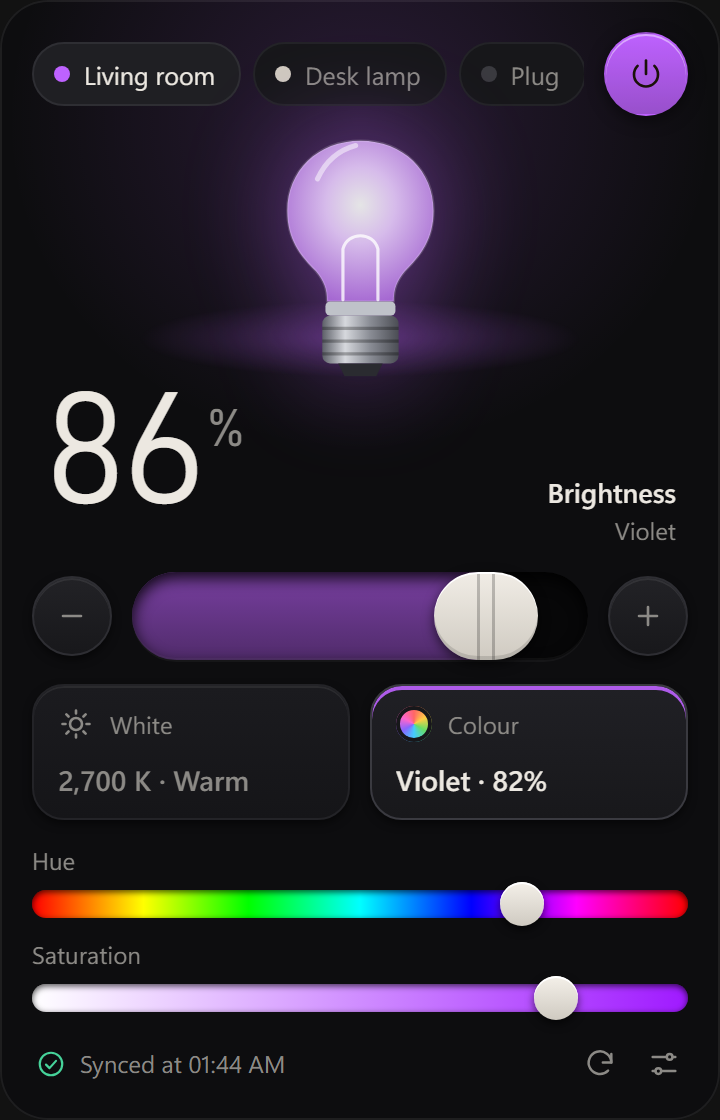
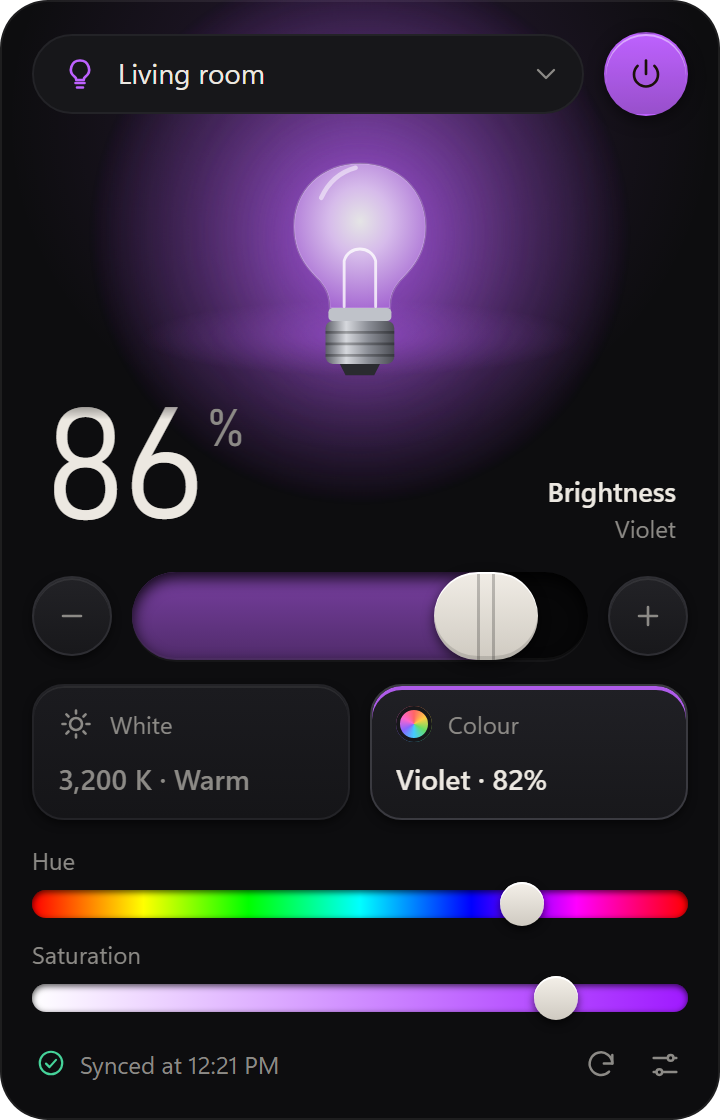
docs: refresh README screenshots with the new UI
Regenerate the screenshots in English at 2x and cut them down to the
ones that matter: warm lamp (hero), colour mode, device dropdown and
the camera (video blurred).

diff --git a/README.md b/README.md
@@ -37,17 +37,9 @@ Lumi is a Windows tray app that controls **Tuya** smart lights and cameras throu
 
 <table>
   <tr>
-    <td align="center"><img src="docs/screenshots/light-warm.png" width="240" /><br/><sub>Warm white</sub></td>
-    <td align="center"><img src="docs/screenshots/light-cool.png" width="240" /><br/><sub>Cool white</sub></td>
-    <td align="center"><img src="docs/screenshots/light-colour.png" width="240" /><br/><sub>Colour</sub></td>
-  </tr>
-  <tr>
-    <td align="center"><img src="docs/screenshots/light-off.png" width="240" /><br/><sub>Off</sub></td>
-    <td align="center"><img src="docs/screenshots/settings.png" width="240" /><br/><sub>Settings</sub></td>
-    <td align="center"><img src="docs/screenshots/credentials.png" width="240" /><br/><sub>Tuya credentials</sub></td>
-  </tr>
-  <tr>
-    <td align="center"><img src="docs/screenshots/camera.png" width="240" /><br/><sub>Camera (video blurred)</sub></td>
+    <td align="center"><img src="docs/screenshots/light-colour.png" width="240" alt="Colour mode" /><br/><sub>Colour</sub></td>
+    <td align="center"><img src="docs/screenshots/devices.png" width="240" alt="Device dropdown" /><br/><sub>Devices</sub></td>
+    <td align="center"><img src="docs/screenshots/camera.png" width="240" alt="Camera with live video, blurred here" /><br/><sub>Camera (video blurred)</sub></td>
   </tr>
 </table>
 
